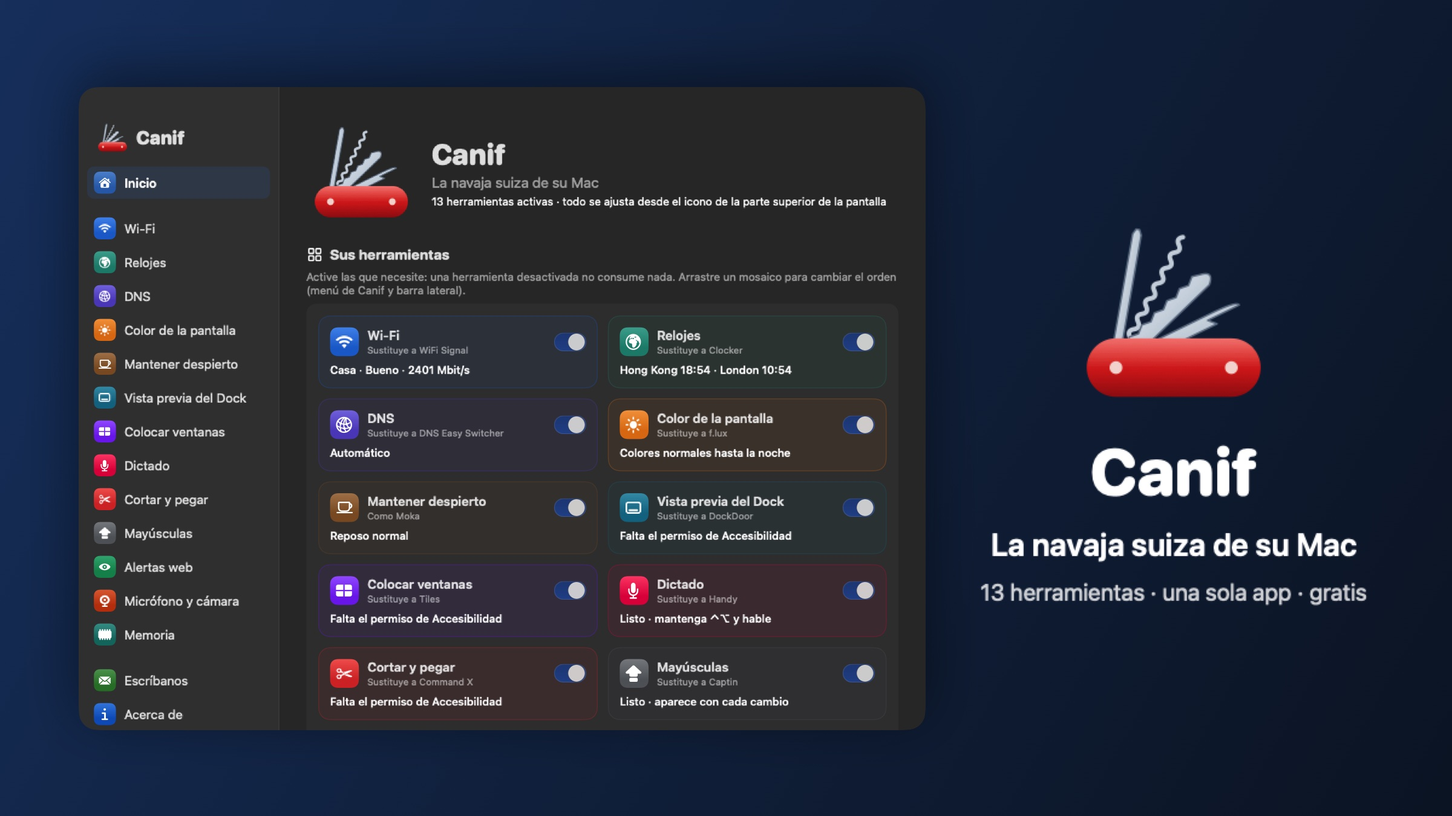
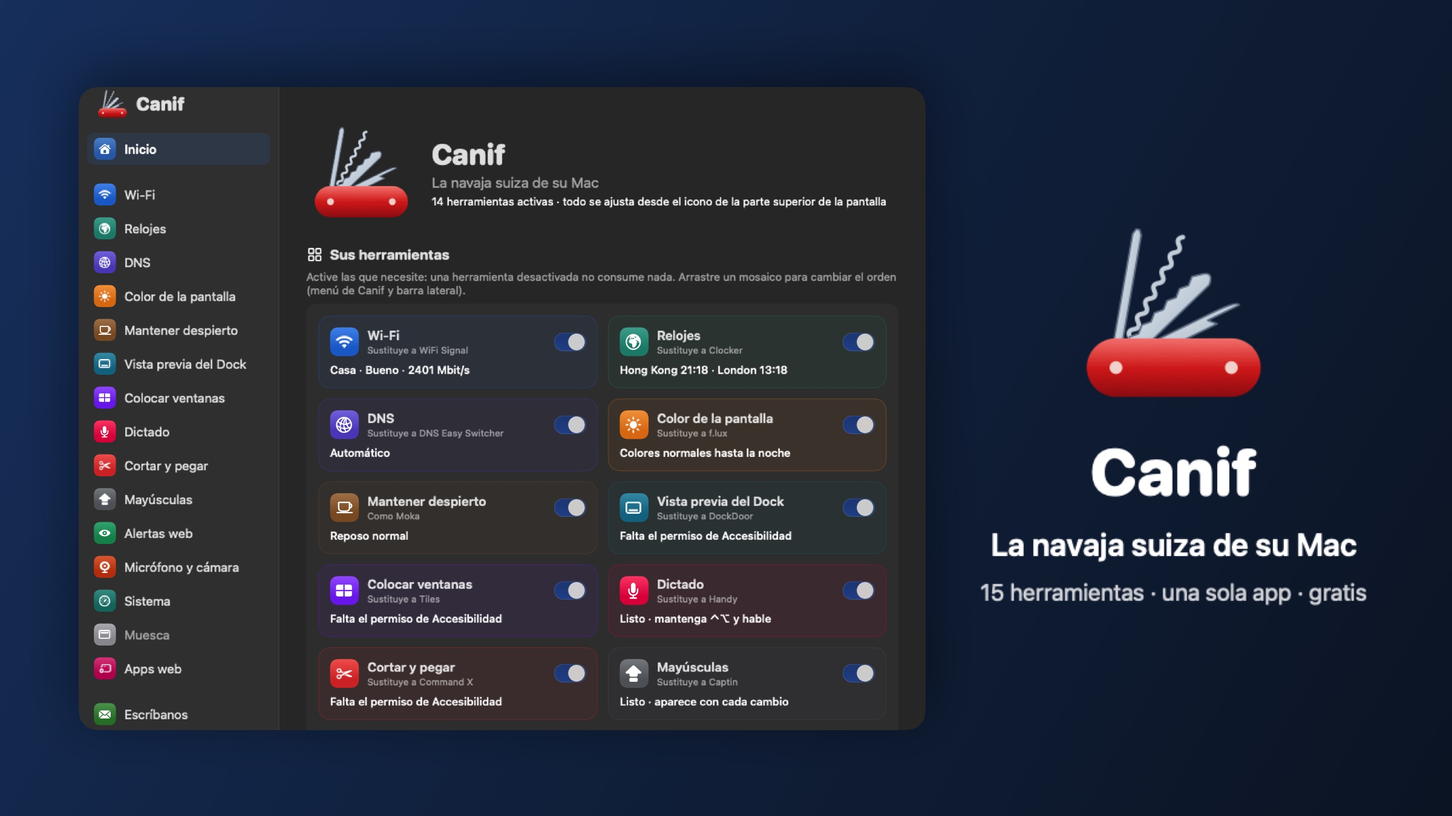
Canif 0.3.0 : 15 outils (Système, Encoche, Apps web), choix du modèle de dictée

diff --git a/index.html b/index.html
@@ -5,7 +5,7 @@
 <meta name="viewport" content="width=device-width, initial-scale=1">
 <title>Canif — le couteau suisse de votre Mac</title>
 <link rel="icon" href="icon.png">
-<meta name="description" content="Canif réunit 13 petits outils du Mac dans une seule app gratuite : WiFi, horloges, DNS, couleur de l'écran, dictée, aperçu du Dock, rangement des fenêtres…">
+<meta name="description" content="Canif réunit 15 petits outils du Mac dans une seule app gratuite : WiFi, horloges, DNS, dictée, aperçu du Dock, moniteur système, encoche, apps web…">
 <meta property="og:title" content="Canif — le couteau suisse de votre Mac">
 <meta property="og:image" content="https://xavier38.github.io/canif/promo.jpg">
 <style>
@@ -34,7 +34,7 @@
   <div style="display:flex;gap:18px;align-items:center;flex-wrap:wrap">
     <img src="icon.png" alt="Canif" width="96" height="96" style="border-radius:22px;box-shadow:0 8px 22px rgba(0,0,0,.2)">
     <div><h1>Canif</h1>
-      <p class="tag lang-fr">Le couteau suisse de votre Mac : 13 outils dans une seule app, en 7 langues.</p><p class="tag lang-en">Your Mac's Swiss army knife: 13 tools in one app, in 7 languages.</p><p class="tag lang-es">La navaja suiza de tu Mac: 13 herramientas en una sola app, en 7 idiomas.</p><p class="tag lang-pt">O canivete suíço do seu Mac: 13 ferramentas em um só app, em 7 idiomas.</p><p class="tag lang-nl">Het Zwitserse zakmes van je Mac: 13 tools in één app, in 7 talen.</p><p class="tag lang-de">Das Schweizer Taschenmesser für deinen Mac: 13 Werkzeuge in einer App, in 7 Sprachen.</p><p class="tag lang-it">Il coltellino svizzero del tuo Mac: 13 strumenti in un'unica app, in 7 lingue.</p></div>
+      <p class="tag lang-fr">Le couteau suisse de votre Mac : 15 outils dans une seule app, en 7 langues.</p><p class="tag lang-en">Your Mac's Swiss army knife: 15 tools in one app, in 7 languages.</p><p class="tag lang-es">La navaja suiza de tu Mac: 15 herramientas en una sola app, en 7 idiomas.</p><p class="tag lang-pt">O canivete suíço do seu Mac: 15 ferramentas em um só app, em 7 idiomas.</p><p class="tag lang-nl">Het Zwitserse zakmes van je Mac: 15 tools in één app, in 7 talen.</p><p class="tag lang-de">Das Schweizer Taschenmesser für deinen Mac: 15 Werkzeuge in einer App, in 7 Sprachen.</p><p class="tag lang-it">Il coltellino svizzero del tuo Mac: 15 strumenti in un'unica app, in 7 lingue.</p></div>
   </div>
   <div class="btns">
     <a class="btn" href="https://github.com/xavier38/canif/releases/latest/download/Canif.zip">⬇ <span class="lang-fr">Télécharger Canif</span><span class="lang-en">Download Canif</span><span class="lang-es">Descargar Canif</span><span class="lang-pt">Baixar o Canif</span><span class="lang-nl">Canif downloaden</span><span class="lang-de">Canif laden</span><span class="lang-it">Scarica Canif</span></a>
@@ -43,13 +43,13 @@
   </div>
   <p class="tag lang-fr" style="font-size:15px">Gratuit. macOS 14 Sonoma ou plus récent, Mac Apple Silicon (M1 ou plus récent).</p>
   <p class="tag lang-en" style="font-size:15px">Free. macOS 14 Sonoma or later, Apple Silicon Mac (M1 or later).</p><p class="tag lang-es" style="font-size:15px">Gratis. macOS 14 Sonoma o posterior, Mac con Apple Silicon (M1 o posterior).</p><p class="tag lang-pt" style="font-size:15px">Grátis. macOS 14 Sonoma ou posterior, Mac com Apple Silicon (M1 ou posterior).</p><p class="tag lang-nl" style="font-size:15px">Gratis. macOS 14 Sonoma of nieuwer, Mac met Apple Silicon (M1 of nieuwer).</p><p class="tag lang-de" style="font-size:15px">Kostenlos. macOS 14 Sonoma oder neuer, Mac mit Apple Silicon (M1 oder neuer).</p><p class="tag lang-it" style="font-size:15px">Gratis. macOS 14 Sonoma o versioni successive, Mac con Apple Silicon (M1 o successivo).</p>
-  <img class="promo lang-fr" src="promo-fr.jpg" alt="Canif : l'accueil avec ses 13 outils">
-  <img class="promo lang-en" src="promo-en.jpg" alt="Canif: the home screen with its 13 tools">
-  <img class="promo lang-es" src="promo-es.jpg" alt="Canif: la pantalla de inicio con sus 13 herramientas">
-  <img class="promo lang-pt" src="promo-pt.jpg" alt="Canif: a tela inicial com suas 13 ferramentas">
-  <img class="promo lang-nl" src="promo-nl.jpg" alt="Canif: het beginscherm met de 13 tools">
-  <img class="promo lang-de" src="promo-de.jpg" alt="Canif: der Startbildschirm mit seinen 13 Werkzeugen">
-  <img class="promo lang-it" src="promo-it.jpg" alt="Canif: la schermata iniziale con i suoi 13 strumenti">
+  <img class="promo lang-fr" src="promo-fr.jpg" alt="Canif : l'accueil avec ses 15 outils">
+  <img class="promo lang-en" src="promo-en.jpg" alt="Canif: the home screen with its 15 tools">
+  <img class="promo lang-es" src="promo-es.jpg" alt="Canif: la pantalla de inicio con sus 15 herramientas">
+  <img class="promo lang-pt" src="promo-pt.jpg" alt="Canif: a tela inicial com suas 15 ferramentas">
+  <img class="promo lang-nl" src="promo-nl.jpg" alt="Canif: het beginscherm met de 15 tools">
+  <img class="promo lang-de" src="promo-de.jpg" alt="Canif: der Startbildschirm mit seinen 15 Werkzeugen">
+  <img class="promo lang-it" src="promo-it.jpg" alt="Canif: la schermata iniziale con i suoi 15 strumenti">
 
   <h2 class="lang-fr">Une app au lieu de treize</h2><h2 class="lang-en">One app instead of thirteen</h2><h2 class="lang-es">Una app en lugar de trece</h2><h2 class="lang-pt">Um app em vez de treze</h2><h2 class="lang-nl">Eén app in plaats van dertien</h2><h2 class="lang-de">Eine App statt dreizehn</h2><h2 class="lang-it">Un'app invece di tredici</h2>
   <p class="lang-fr">Chaque outil s'active ou se coupe d'un clic. Mode standard pour aller à l'essentiel, mode expert pour tout régler. Tout se commande depuis l'icône en haut de l'écran.</p>
@@ -70,7 +70,7 @@
     <div class="card"><h3 class="lang-fr">Ranger les fenêtres</h3><h3 class="lang-en">Window snapping</h3><h3 class="lang-es">Organizar ventanas</h3><h3 class="lang-pt">Organizar janelas</h3><h3 class="lang-nl">Vensters ordenen</h3><h3 class="lang-de">Fenster anordnen</h3><h3 class="lang-it">Disporre le finestre</h3>
       <p class="lang-fr">Glissez une fenêtre contre un bord, ou ⌃⌥ + flèche.</p><p class="lang-en">Drag a window to an edge of the screen, or press ⌃⌥ + arrow.</p><p class="lang-es">Arrastra una ventana contra un borde, o pulsa ⌃⌥ + flecha.</p><p class="lang-pt">Arraste uma janela até uma borda, ou use ⌃⌥ + seta.</p><p class="lang-nl">Sleep een venster naar een rand, of druk op ⌃⌥ + pijl.</p><p class="lang-de">Zieh ein Fenster an einen Rand oder drück ⌃⌥ + Pfeiltaste.</p><p class="lang-it">Trascina una finestra contro un bordo, oppure premi ⌃⌥ + freccia.</p></div>
     <div class="card"><h3 class="lang-fr">Dictée</h3><h3 class="lang-en">Dictation</h3><h3 class="lang-es">Dictado</h3><h3 class="lang-pt">Ditado</h3><h3 class="lang-nl">Dicteren</h3><h3 class="lang-de">Diktat</h3><h3 class="lang-it">Dettatura</h3>
-      <p class="lang-fr">Maintenez un raccourci et parlez : le texte s'écrit tout seul, sans internet.</p><p class="lang-en">Hold down a shortcut and speak: the text types itself, no internet needed.</p><p class="lang-es">Mantén pulsado un atajo y habla: el texto se escribe solo, sin internet.</p><p class="lang-pt">Mantenha um atalho pressionado e fale: o texto se escreve sozinho, sem internet.</p><p class="lang-nl">Houd een toetscombinatie ingedrukt en praat: de tekst verschijnt vanzelf, zonder internet.</p><p class="lang-de">Halte ein Tastenkürzel gedrückt und sprich: Der Text schreibt sich von selbst, ohne Internet.</p><p class="lang-it">Tieni premuta un'abbreviazione e parla: il testo si scrive da solo, senza internet.</p></div>
+      <p class="lang-fr">Maintenez un raccourci et parlez : le texte s'écrit tout seul, sans internet. Modèle au choix (Parakeet, Whisper, Canary…).</p><p class="lang-en">Hold down a shortcut and speak: the text types itself, no internet needed. Choose your model (Parakeet, Whisper, Canary…).</p><p class="lang-es">Mantén pulsado un atajo y habla: el texto se escribe solo, sin internet.</p><p class="lang-pt">Mantenha um atalho pressionado e fale: o texto se escreve sozinho, sem internet.</p><p class="lang-nl">Houd een toetscombinatie ingedrukt en praat: de tekst verschijnt vanzelf, zonder internet.</p><p class="lang-de">Halte ein Tastenkürzel gedrückt und sprich: Der Text schreibt sich von selbst, ohne Internet.</p><p class="lang-it">Tieni premuta un'abbreviazione e parla: il testo si scrive da solo, senza internet.</p></div>
     <div class="card"><h3 class="lang-fr">Couper-coller</h3><h3 class="lang-en">Cut and paste</h3><h3 class="lang-es">Cortar y pegar</h3><h3 class="lang-pt">Recortar e colar</h3><h3 class="lang-nl">Knippen en plakken</h3><h3 class="lang-de">Ausschneiden und einsetzen</h3><h3 class="lang-it">Taglia e incolla</h3>
       <p class="lang-fr">⌘X puis ⌘V pour déplacer des fichiers dans le Finder.</p><p class="lang-en">⌘X then ⌘V to move files in the Finder.</p><p class="lang-es">⌘X y luego ⌘V para mover archivos en el Finder.</p><p class="lang-pt">⌘X e depois ⌘V para mover arquivos no Finder.</p><p class="lang-nl">⌘X en dan ⌘V om bestanden te verplaatsen in de Finder.</p><p class="lang-de">⌘X und dann ⌘V, um Dateien im Finder zu bewegen.</p><p class="lang-it">⌘X e poi ⌘V per spostare i file nel Finder.</p></div>
     <div class="card"><h3 class="lang-fr">Majuscules</h3><h3 class="lang-en">Caps Lock</h3><h3 class="lang-es">Bloq Mayús</h3><h3 class="lang-pt">Caps Lock</h3><h3 class="lang-nl">Caps Lock</h3><h3 class="lang-de">Feststelltaste</h3><h3 class="lang-it">Bloc Maiusc</h3>
@@ -79,8 +79,12 @@
       <p class="lang-fr">Soyez prévenu quand une partie d'une page web change.</p><p class="lang-en">Get notified when part of a web page changes.</p><p class="lang-es">Recibe un aviso cuando cambia una parte de una página web.</p><p class="lang-pt">Seja avisado quando uma parte de uma página da web mudar.</p><p class="lang-nl">Krijg een melding als een deel van een webpagina verandert.</p><p class="lang-de">Werde benachrichtigt, wenn sich ein Teil einer Webseite ändert.</p><p class="lang-it">Ricevi un avviso quando cambia una parte di una pagina web.</p></div>
     <div class="card"><h3 class="lang-fr">Micro et caméra</h3><h3 class="lang-en">Microphone and camera</h3><h3 class="lang-es">Micrófono y cámara</h3><h3 class="lang-pt">Microfone e câmera</h3><h3 class="lang-nl">Microfoon en camera</h3><h3 class="lang-de">Mikrofon und Kamera</h3><h3 class="lang-it">Microfono e fotocamera</h3>
       <p class="lang-fr">Un badge s'affiche dès qu'une app allume votre micro ou votre caméra.</p><p class="lang-en">A badge appears as soon as an app turns on your microphone or camera.</p><p class="lang-es">Aparece una señal en cuanto una app enciende tu micrófono o tu cámara.</p><p class="lang-pt">Um selo aparece assim que um app liga seu microfone ou sua câmera.</p><p class="lang-nl">Er verschijnt een badge zodra een app je microfoon of camera aanzet.</p><p class="lang-de">Ein Hinweis erscheint, sobald eine App dein Mikrofon oder deine Kamera einschaltet.</p><p class="lang-it">Compare un badge appena un'app accende il microfono o la fotocamera.</p></div>
-    <div class="card"><h3 class="lang-fr">Mémoire</h3><h3 class="lang-en">Memory</h3><h3 class="lang-es">Memoria</h3><h3 class="lang-pt">Memória</h3><h3 class="lang-nl">Geheugen</h3><h3 class="lang-de">Speicher</h3><h3 class="lang-it">Memoria</h3>
-      <p class="lang-fr">La mémoire du Mac en un coup d'œil, l'historique de l'heure et les apps qui en consomment le plus.</p><p class="lang-en">Your Mac's memory at a glance, with the last hour's history and the apps using the most.</p><p class="lang-es">La memoria del Mac de un vistazo, el historial de la última hora y las apps que más consumen.</p><p class="lang-pt">A memória do Mac num relance, o histórico da última hora e os apps que mais consomem.</p><p class="lang-nl">Het geheugen van je Mac in één oogopslag, de geschiedenis van het afgelopen uur en de apps die het meest gebruiken.</p><p class="lang-de">Der Arbeitsspeicher deines Macs auf einen Blick, der Verlauf der letzten Stunde und die Apps, die am meisten verbrauchen.</p><p class="lang-it">La memoria del Mac a colpo d'occhio, la cronologia dell'ultima ora e le app che ne consumano di più.</p></div>
+    <div class="card"><h3 class="lang-fr">Système</h3><h3 class="lang-en">System</h3><h3 class="lang-es">Sistema</h3><h3 class="lang-pt">Sistema</h3><h3 class="lang-nl">Systeem</h3><h3 class="lang-de">System</h3><h3 class="lang-it">Sistema</h3>
+      <p class="lang-fr">Processeur, carte graphique, mémoire, disques, réseau, températures et batterie, avec la carte de ce qui remplit votre disque.</p><p class="lang-en">CPU, GPU, memory, disks, network, temperatures and battery, with a map of what fills your disk.</p><p class="lang-es">Procesador, gráfica, memoria, discos, red, temperaturas y batería, con un mapa de lo que llena tu disco.</p><p class="lang-pt">Processador, GPU, memória, discos, rede, temperaturas e bateria, com um mapa do que enche seu disco.</p><p class="lang-nl">Processor, GPU, geheugen, schijven, netwerk, temperaturen en batterij, met een kaart van wat je schijf vult.</p><p class="lang-de">Prozessor, Grafik, Speicher, Festplatten, Netzwerk, Temperaturen und Batterie, mit einer Karte dessen, was deine Festplatte füllt.</p><p class="lang-it">Processore, grafica, memoria, dischi, rete, temperature e batteria, con una mappa di ciò che riempie il disco.</p></div>
+    <div class="card"><h3 class="lang-fr">Encoche</h3><h3 class="lang-en">Notch</h3><h3 class="lang-es">Muesca</h3><h3 class="lang-pt">Notch</h3><h3 class="lang-nl">Notch</h3><h3 class="lang-de">Notch</h3><h3 class="lang-it">Notch</h3>
+      <p class="lang-fr">Une île dynamique sous l'encoche : musique, agenda, miroir, note et plateau de fichiers à glisser.</p><p class="lang-en">A dynamic island under the notch: music, calendar, mirror, notes and a file tray to drag into.</p><p class="lang-es">Una isla dinámica bajo la muesca: música, agenda, espejo, notas y una bandeja de archivos.</p><p class="lang-pt">Uma ilha dinâmica sob o notch: música, agenda, espelho, notas e uma bandeja de arquivos.</p><p class="lang-nl">Een dynamisch eiland onder de notch: muziek, agenda, spiegel, notities en een bestandsbak.</p><p class="lang-de">Eine dynamische Insel unter der Notch: Musik, Kalender, Spiegel, Notizen und eine Dateiablage.</p><p class="lang-it">Un'isola dinamica sotto il notch: musica, agenda, specchio, note e un vassoio per i file.</p></div>
+    <div class="card"><h3 class="lang-fr">Apps web</h3><h3 class="lang-en">Web apps</h3><h3 class="lang-es">Apps web</h3><h3 class="lang-pt">Apps web</h3><h3 class="lang-nl">Webapps</h3><h3 class="lang-de">Web-Apps</h3><h3 class="lang-it">App web</h3>
+      <p class="lang-fr">Transformez un site en vraie app pour le Mac, avec sa propre session, ses notifications et son icône.</p><p class="lang-en">Turn a website into a real Mac app, with its own session, notifications and icon.</p><p class="lang-es">Convierte un sitio en una app de verdad para el Mac, con su propia sesión, notificaciones e icono.</p><p class="lang-pt">Transforme um site em um app de verdade para o Mac, com sessão, notificações e ícone próprios.</p><p class="lang-nl">Maak van een website een echte Mac-app, met een eigen sessie, meldingen en symbool.</p><p class="lang-de">Mach aus einer Website eine echte Mac-App, mit eigener Sitzung, Mitteilungen und eigenem Symbol.</p><p class="lang-it">Trasforma un sito in una vera app per Mac, con sessione, notifiche e icona proprie.</p></div>
   </div>
   <section id="autres-apps" data-current="canif"></section>
   <footer>

diff --git a/installation.html b/installation.html
@@ -83,13 +83,13 @@
     <li class="lang-nl"><b>Geef toestemming</b>In Canif, onderdeel <b style="display:inline">Start</b>, helemaal onderaan, bij <b style="display:inline">Toestemmingen</b>: één knop per toestemming (Toegankelijkheid voor vensters ordenen, de Dock-voorvertoning en knippen-plakken; Microfoon voor dicteren; Locatie voor de naam van het wifinetwerk). Alleen de tools die je gebruikt hebben ze nodig.</li>
     <li class="lang-de"><b>Erteilen Sie die Berechtigungen</b>In Canif unter <b style="display:inline">Start</b>, ganz unten, Abschnitt <b style="display:inline">Berechtigungen</b>: eine Taste pro Berechtigung (Bedienungshilfen zum Anordnen der Fenster, für die Dock-Vorschau und zum Ausschneiden; Mikrofon für das Diktat; Ortungsdienste für den WLAN-Namen). Nur die Werkzeuge, die Sie nutzen, brauchen sie.</li>
     <li class="lang-it"><b>Concedi le autorizzazioni</b>In Canif, sezione <b style="display:inline">Home</b>, in fondo, alla voce <b style="display:inline">Autorizzazioni</b>: un pulsante per ogni autorizzazione (Accessibilità per sistemare le finestre, l'anteprima del Dock e il taglia e incolla; Microfono per la dettatura; Localizzazione per il nome della rete Wi-Fi). Servono solo agli strumenti che usi.</li>
-    <li class="lang-fr"><b>Choisissez vos outils</b>Rubrique <b style="display:inline">Accueil</b> : un interrupteur pour chacun des 13 outils. Coupez ceux dont vous n'avez pas besoin.</li>
-    <li class="lang-en"><b>Pick your tools</b><b style="display:inline">Home</b>: one switch for each of the 13 tools. Turn off the ones you don't need.</li>
-    <li class="lang-es"><b>Elige tus herramientas</b>Sección <b style="display:inline">Inicio</b>: un interruptor para cada una de las 13 herramientas. Desactiva las que no necesites.</li>
-    <li class="lang-pt"><b>Escolha suas ferramentas</b>Seção <b style="display:inline">Início</b>: um interruptor para cada uma das 13 ferramentas. Desligue as que você não precisa.</li>
-    <li class="lang-nl"><b>Kies je tools</b>Onderdeel <b style="display:inline">Start</b>: een schakelaar voor elk van de 13 tools. Zet de tools uit die je niet nodig hebt.</li>
-    <li class="lang-de"><b>Wählen Sie Ihre Werkzeuge</b>Unter <b style="display:inline">Start</b>: ein Schalter für jedes der 13 Werkzeuge. Schalten Sie aus, was Sie nicht brauchen.</li>
-    <li class="lang-it"><b>Scegli i tuoi strumenti</b>Sezione <b style="display:inline">Home</b>: un interruttore per ciascuno dei 13 strumenti. Disattiva quelli che non ti servono.</li>
+    <li class="lang-fr"><b>Choisissez vos outils</b>Rubrique <b style="display:inline">Accueil</b> : un interrupteur pour chacun des 15 outils. Coupez ceux dont vous n'avez pas besoin.</li>
+    <li class="lang-en"><b>Pick your tools</b><b style="display:inline">Home</b>: one switch for each of the 15 tools. Turn off the ones you don't need.</li>
+    <li class="lang-es"><b>Elige tus herramientas</b>Sección <b style="display:inline">Inicio</b>: un interruptor para cada una de las 15 herramientas. Desactiva las que no necesites.</li>
+    <li class="lang-pt"><b>Escolha suas ferramentas</b>Seção <b style="display:inline">Início</b>: um interruptor para cada uma das 15 ferramentas. Desligue as que você não precisa.</li>
+    <li class="lang-nl"><b>Kies je tools</b>Onderdeel <b style="display:inline">Start</b>: een schakelaar voor elk van de 15 tools. Zet de tools uit die je niet nodig hebt.</li>
+    <li class="lang-de"><b>Wählen Sie Ihre Werkzeuge</b>Unter <b style="display:inline">Start</b>: ein Schalter für jedes der 15 Werkzeuge. Schalten Sie aus, was Sie nicht brauchen.</li>
+    <li class="lang-it"><b>Scegli i tuoi strumenti</b>Sezione <b style="display:inline">Home</b>: un interruttore per ciascuno dei 15 strumenti. Disattiva quelli che non ti servono.</li>
   </ol>
   <p class="note lang-fr">La dictée a besoin d'un modèle de reconnaissance vocale (environ 630 Mo). Canif vous propose de l'installer la première fois que vous ouvrez l'outil Dictée ; ensuite tout fonctionne sans internet.</p>
   <p class="note lang-en">Dictation needs a speech recognition model (about 630 MB). Canif offers to install it the first time you open the Dictation tool; after that everything works offline.</p>

diff --git a/README.md b/README.md
@@ -2,8 +2,8 @@
 
 <h1 align="center">Canif</h1>
 
-<p align="center"><b>Le couteau suisse de votre Mac : 13 outils dans une seule app, gratuite, en 7 langues.</b><br>
-Your Mac's Swiss army knife: 13 tools in one free app, in 7 languages.</p>
+<p align="center"><b>Le couteau suisse de votre Mac : 15 outils dans une seule app, gratuite, en 7 langues.</b><br>
+Your Mac's Swiss army knife: 15 tools in one free app, in 7 languages.</p>
 
 <p align="center">
 <a href="https://github.com/xavier38/canif/releases/latest/download/Canif.zip"><b>⬇ Télécharger / Download Canif.zip</b></a> ·
@@ -16,7 +16,7 @@ Your Mac's Swiss army knife: 13 tools in one free app, in 7 languages.</p>
 
 Mac Apple Silicon, macOS 14 ou plus récent · Apple Silicon Mac, macOS 14 or later
 
-## 🇫🇷 Les 13 outils
+## 🇫🇷 Les 15 outils
 
 | Outil | Ce qu'il fait |
 |---|---|
@@ -27,16 +27,18 @@ Mac Apple Silicon, macOS 14 ou plus récent · Apple Silicon Mac, macOS 14 or la
 | ☕ **Garder éveillé** | Empêchez le Mac de s'endormir, le temps qu'il faut. |
 | 🪟 **Aperçu du Dock** | Survolez une icône du Dock pour voir ses fenêtres, la musique en cours (Musique, Spotify) ou un dossier. Aussi avec ⌘⇥, boutons sur les vignettes, gestes de défilement et indicateur d'app active. |
 | ▦ **Ranger les fenêtres** | Glissez une fenêtre contre un bord, ou ⌃⌥ + flèche. |
-| 🎙 **Dictée** | Maintenez un raccourci et parlez : le texte s'écrit tout seul, sans internet. Retouche par IA facultative. |
+| 🎙 **Dictée** | Maintenez un raccourci et parlez : le texte s'écrit tout seul, sans internet. Modèle au choix comme dans Handy (Parakeet Ultra/V3/V2, Canary, Whisper Small/Medium/Turbo/Large, SenseVoice), retouche par IA facultative. |
 | ✂ **Couper-coller** | ⌘X puis ⌘V pour déplacer des fichiers dans le Finder. |
 | ⇪ **Majuscules** | Voyez tout de suite quand le verrouillage des majuscules est activé. |
 | 🔔 **Alertes web** | Soyez prévenu quand une partie d'une page web change. |
 | 🔴 **Micro et caméra** | Un badge (message et son au choix) s'affiche dès qu'une app allume votre micro ou votre caméra. |
-| 🧠 **Mémoire** | La mémoire du Mac en un coup d'œil, l'historique de l'heure et le top 10 des apps par catégorie. |
+| 📊 **Système** | Comme Stats : processeur (cœurs performance/efficaces), carte graphique, mémoire (historique, top 10 par catégorie), disques (volumes, activité et carte de ce qui prend de la place, comme GrandPerspective), réseau, températures, consommation, batterie (cycles, santé). Mesures au choix dans la barre des menus. |
+| ⬛ **Encoche** | Comme NotchNook : une île dynamique sous l'encoche (musique, agenda avec bouton « Rejoindre », miroir, note), plateau de fichiers à glisser (AirDrop, Coup d'œil), activités en direct (morceau en cours, charge, prochain rendez-vous, volume). |
+| 🌐 **Apps web** | Comme WebCatalog : transformez un site en vraie app Mac légère, avec sa propre session, ses notifications, sa pastille et son icône ; import des apps WebCatalog. |
 
 Chaque outil s'active ou se coupe d'un clic, se règle en mode standard ou expert, et se commande depuis l'icône en haut de l'écran. Sons de notification au choix pour tous les outils.
 
-## 🇬🇧 The 13 tools
+## 🇬🇧 The 15 tools
 
 | Tool | What it does |
 |---|---|
@@ -47,22 +49,24 @@ Chaque outil s'active ou se coupe d'un clic, se règle en mode standard ou exper
 | ☕ **Keep awake** | Keep your Mac from going to sleep, for as long as you need. |
 | 🪟 **Dock preview** | Hover over a Dock icon to see its windows, the music playing (Music, Spotify) or a folder. Also with ⌘⇥, thumbnail buttons, scroll gestures and an active-app indicator. |
 | ▦ **Window snapping** | Drag a window to an edge of the screen, or press ⌃⌥ + arrow. |
-| 🎙 **Dictation** | Hold down a shortcut and speak: the text types itself, no internet needed. Optional AI touch-up. |
+| 🎙 **Dictation** | Hold down a shortcut and speak: the text types itself, no internet needed. Choose your model as in Handy (Parakeet Ultra/V3/V2, Canary, Whisper Small/Medium/Turbo/Large, SenseVoice), optional AI touch-up. |
 | ✂ **Cut and paste** | ⌘X then ⌘V to move files in the Finder. |
 | ⇪ **Caps Lock** | See right away when Caps Lock is on. |
 | 🔔 **Web alerts** | Get notified when part of a web page changes. |
 | 🔴 **Microphone and camera** | A badge (custom message and sound) appears as soon as an app turns on your microphone or camera. |
-| 🧠 **Memory** | Your Mac's memory at a glance, with the last hour's history and the top 10 apps per category. |
+| 📊 **System** | Like Stats: CPU (performance/efficiency cores), GPU, memory (history, top 10 per category), disks (volumes, activity and a map of what takes up space, like GrandPerspective), network, temperatures, power, battery (cycles, health). Pick what shows in the menu bar. |
+| ⬛ **Notch** | Like NotchNook: a dynamic island under the notch (music, calendar with a “Join” button, mirror, notes), a file tray to drag into (AirDrop, Quick Look), live activities (now playing, charging, next event, volume). |
+| 🌐 **Web apps** | Like WebCatalog: turn a website into a light, real Mac app with its own session, notifications, badge and icon; imports your WebCatalog apps. |
 
 Each tool turns on or off with one click, has standard and expert settings, and is controlled from the icon at the top of the screen.
 
 ## 🌍 Other languages
 
-- 🇪🇸 La navaja suiza de tu Mac: 13 herramientas en una sola app, en 7 idiomas. → [Sitio](https://xavier38.github.io/canif/)
-- 🇧🇷 O canivete suíço do seu Mac: 13 ferramentas em um só app, em 7 idiomas. → [Site](https://xavier38.github.io/canif/)
-- 🇳🇱 Het Zwitserse zakmes van je Mac: 13 tools in één app, in 7 talen. → [Website](https://xavier38.github.io/canif/)
-- 🇩🇪 Das Schweizer Taschenmesser für deinen Mac: 13 Werkzeuge in einer App, in 7 Sprachen. → [Website](https://xavier38.github.io/canif/)
-- 🇮🇹 Il coltellino svizzero del tuo Mac: 13 strumenti in un'unica app, in 7 lingue. → [Sito](https://xavier38.github.io/canif/)
+- 🇪🇸 La navaja suiza de tu Mac: 15 herramientas en una sola app, en 7 idiomas. → [Sitio](https://xavier38.github.io/canif/)
+- 🇧🇷 O canivete suíço do seu Mac: 15 ferramentas em um só app, em 7 idiomas. → [Site](https://xavier38.github.io/canif/)
+- 🇳🇱 Het Zwitserse zakmes van je Mac: 15 tools in één app, in 7 talen. → [Website](https://xavier38.github.io/canif/)
+- 🇩🇪 Das Schweizer Taschenmesser für deinen Mac: 15 Werkzeuge in einer App, in 7 Sprachen. → [Website](https://xavier38.github.io/canif/)
+- 🇮🇹 Il coltellino svizzero del tuo Mac: 15 strumenti in un'unica app, in 7 lingue. → [Sito](https://xavier38.github.io/canif/)
 
 Langues de l'app / App languages: Français, English, Español, Português (Brasil), Nederlands, Deutsch, Italiano.
 
